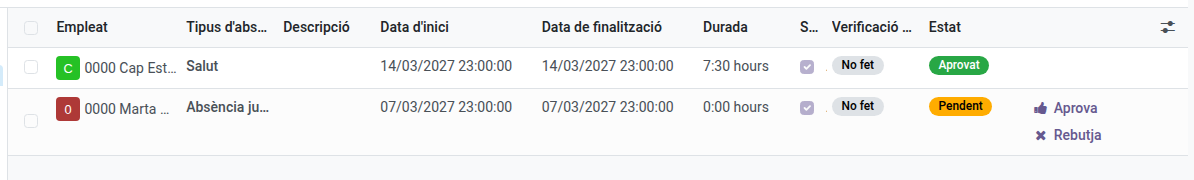
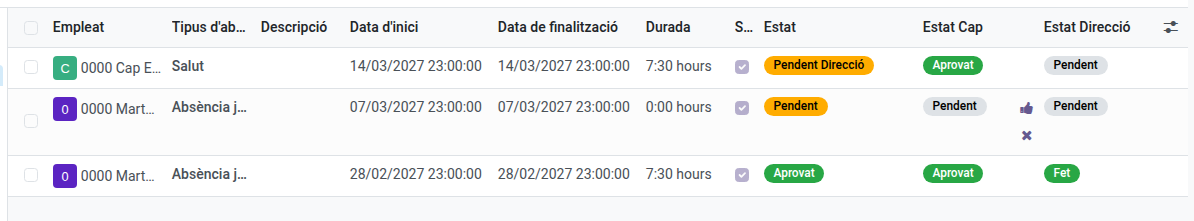
Refresh the absences list screenshot with the Head and Direction columns

diff --git a/tests/test_docs_screenshots_head_of_studies.py b/tests/test_docs_screenshots_head_of_studies.py
@@ -47,11 +47,20 @@ class TestDocsScreenshotsHeadOfStudies(HttpCase, DocsScreenshotMixin):
             'ems_submitted': True, 'ems_responsible_declaration': True,
         })
         cls.leave_health.sudo().action_approve()
+        # A third one approved by both, so the list shows the three stages of the double
+        # approval: pending for both, approved by the Head only, and approved by both.
+        cls.leave_done = cls.env['hr.leave'].create({
+            'employee_id': cls.other_employee.id, 'holiday_status_id': cls.leave_type_justified.id,
+            'request_date_from': datetime(2027, 3, 1).date(), 'request_date_to': datetime(2027, 3, 1).date(),
+            'ems_full_day': True, 'ems_submitted': True, 'ems_responsible_declaration': True,
+        })
+        cls.leave_done.sudo().action_approve()
+        cls.leave_done.sudo().action_ems_direction_done()
         cls.absence_action = cls.env['ir.actions.act_window'].create({
             'name': 'Absències',
             'res_model': 'hr.leave',
             'view_mode': 'list,form',
-            'domain': [('id', 'in', [cls.leave_pending.id, cls.leave_health.id])],
+            'domain': [('id', 'in', [cls.leave_pending.id, cls.leave_health.id, cls.leave_done.id])],
             'context': {'hide_employee_name': 0},
         })
 
